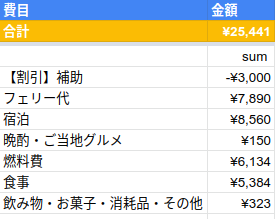
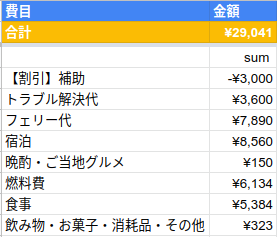
doc: 手直し

Changed region(s): [[0.0, 0.0, 1.0, 1.0]]

diff --git a/_posts/hobby/2022-11-08-travel-to-shikoku-retrospective.md b/_posts/hobby/2022-11-08-travel-to-shikoku-retrospective.md
@@ -36,7 +36,7 @@ __この記事は、当時のメモをもとに、後日加筆・修正し、書
 
 ### 上手くなかった(失敗だ)と思うところ
 
-なんと言っても「フェリーの日付を間違っていた」ことにより「なんの意味もなくお金をドブに捨てた」こと。
+なんと言っても「フェリーの日付を間違っていた」ことにより「なんの意味もなくお金をドブに捨てた」こと。(上記、表中で `トラブル解決代` としている金額です)
 
 こういうのだけは「絶対にしないように！」と、前回の北海道の時から心に決めてたのですが…やっちゃいました。
 
